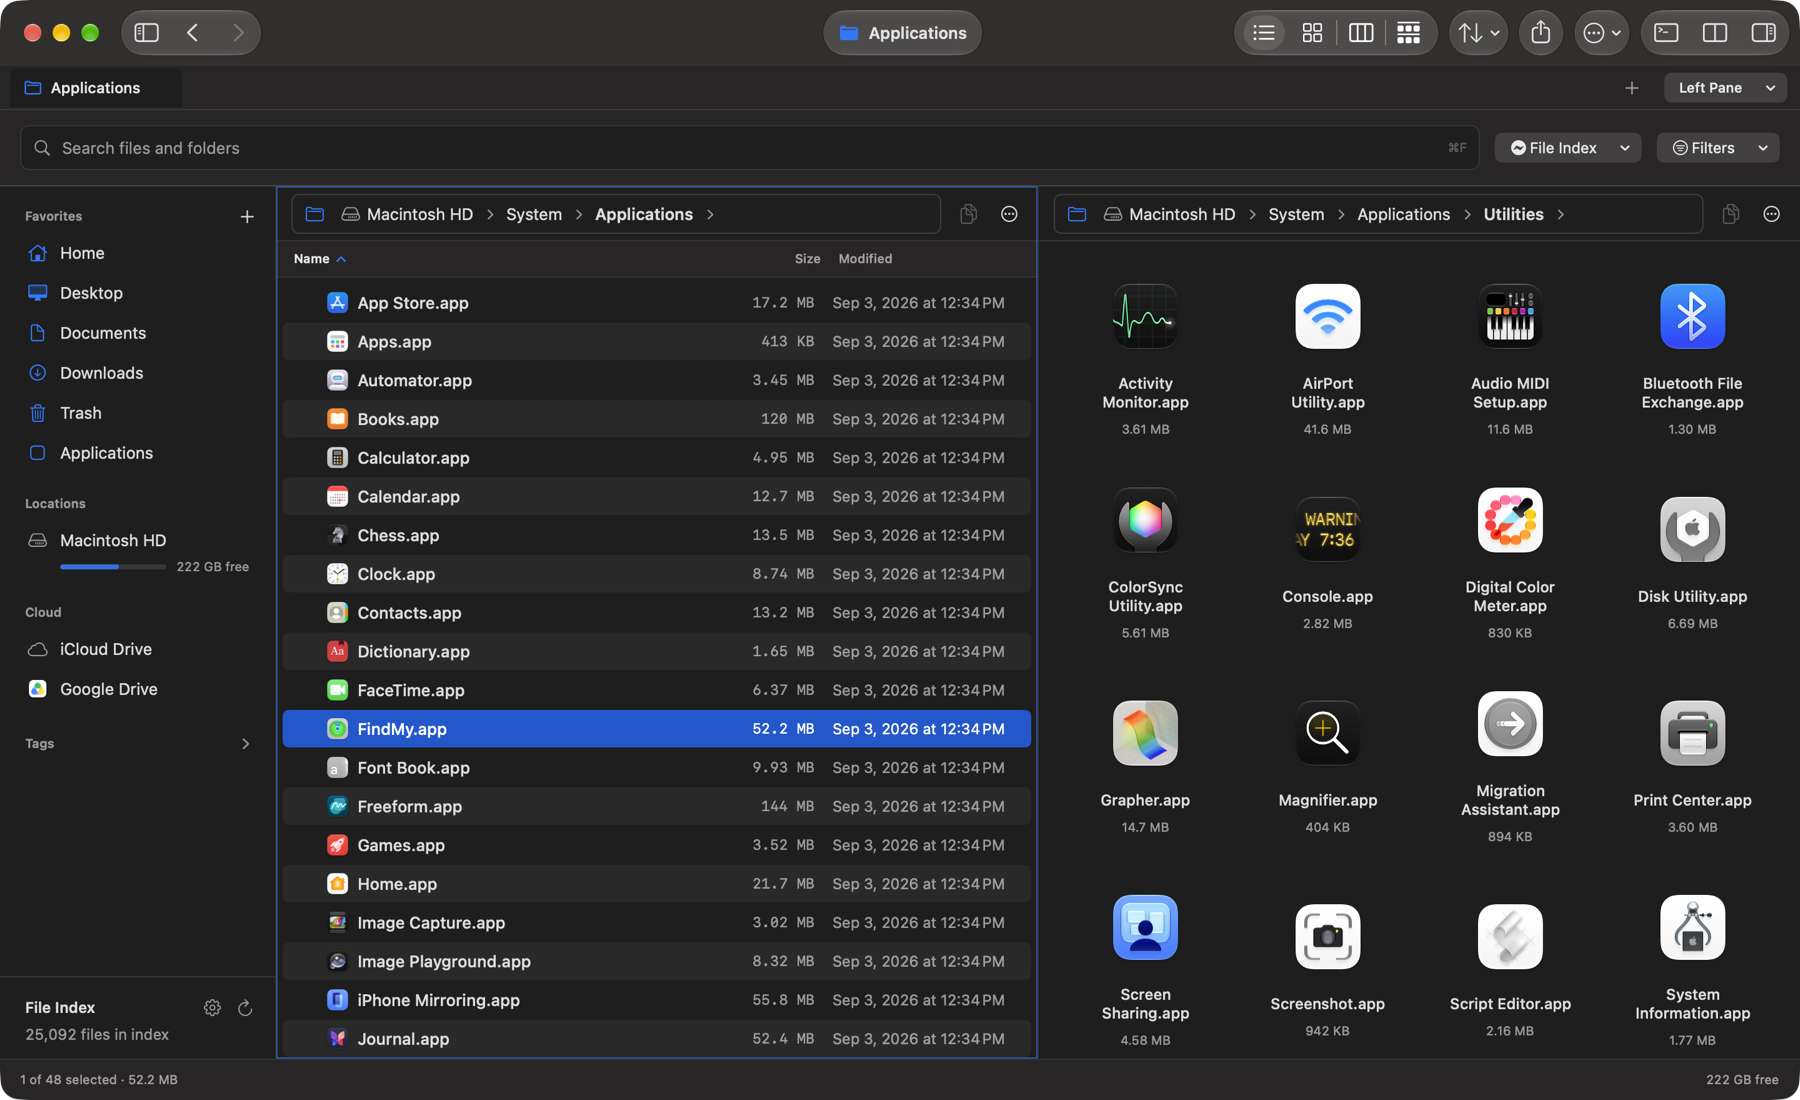
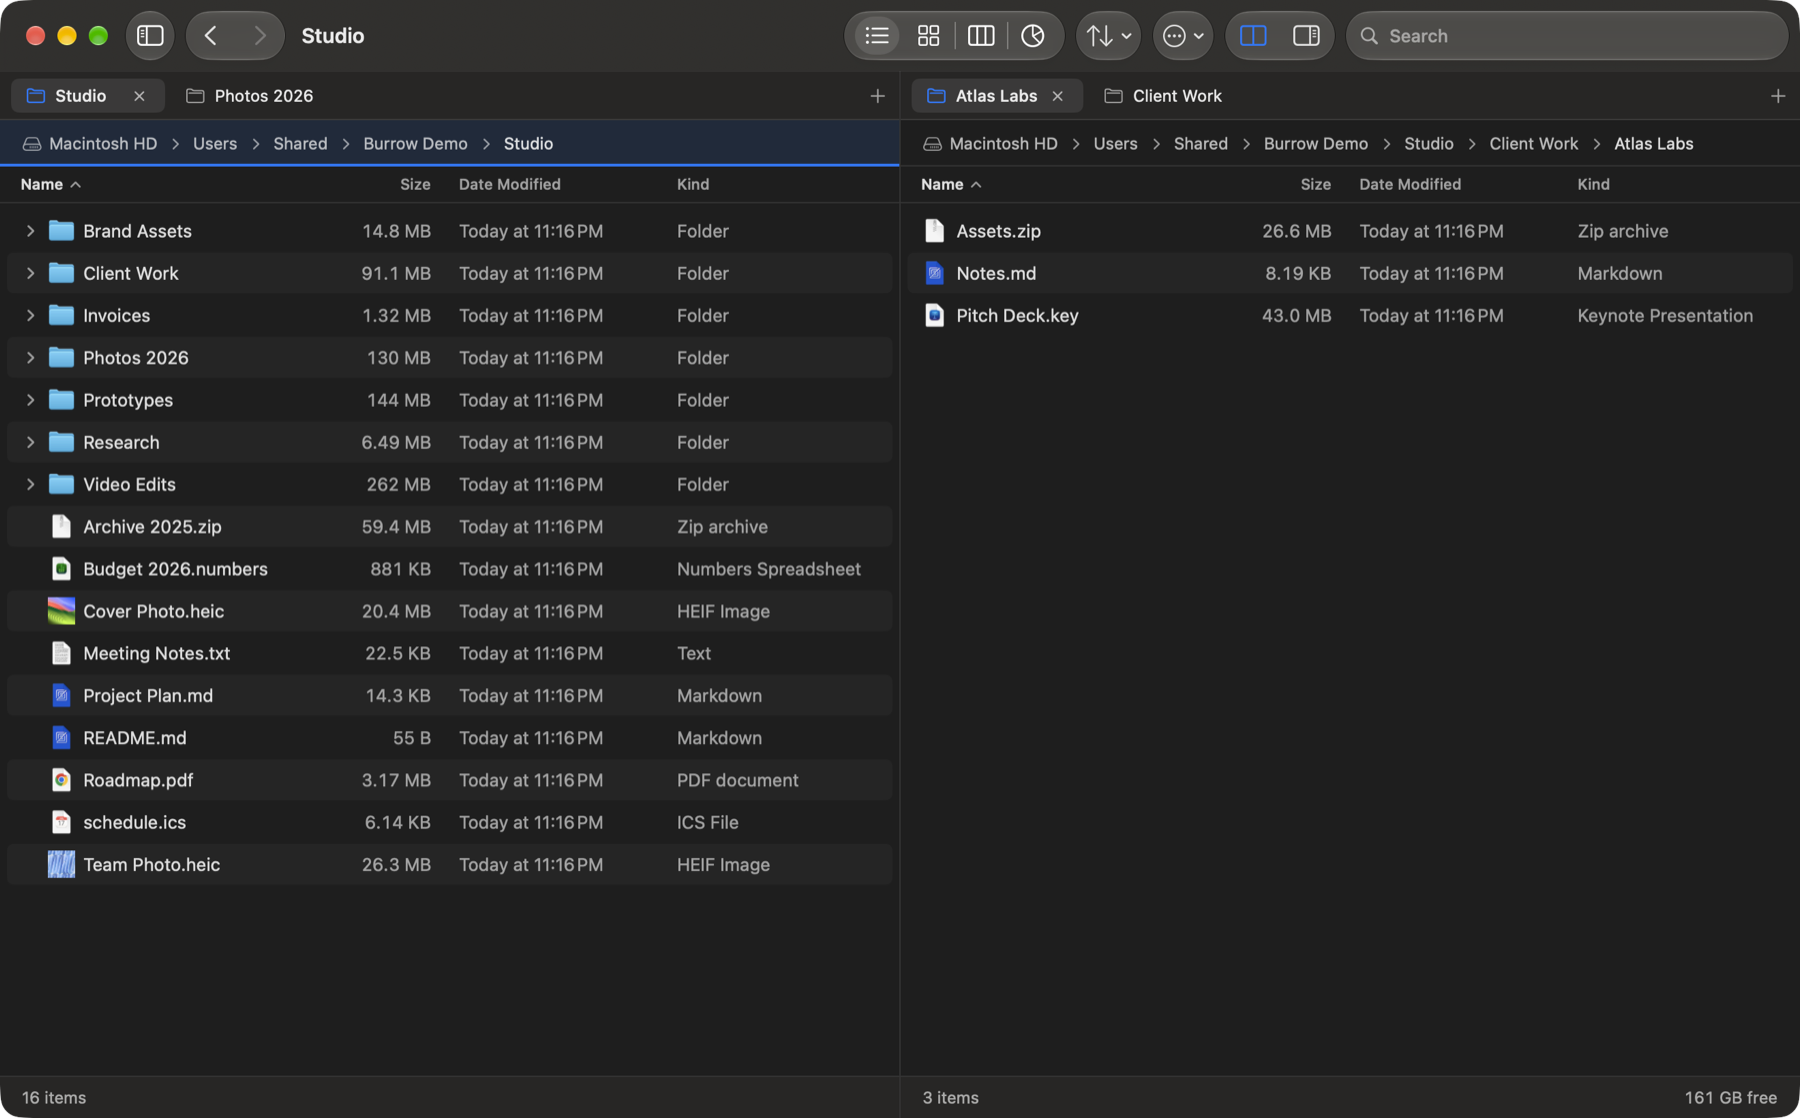
README screenshots of the 0.2.0 look

diff --git a/README.md b/README.md
@@ -33,7 +33,7 @@
 
 https://github.com/user-attachments/assets/154919ab-4196-4dbc-abe3-9a577abc60cc
 
-![Burrow with two panes: System Applications as a list and Utilities as icons, with Favorites, Locations and Cloud in the sidebar](docs/images/dual-pane.png)
+![Burrow in dual pane, each pane with its own tabs: a project folder on the left and one of its subfolders on the right](docs/images/dual-pane.png)
 
 ## Highlights
 
@@ -54,9 +54,9 @@ Burrow is a single native app with no third-party dependencies. It is built from
 
 ## Disk map
 
-![Disk map of /System/Library: size tree above a cushion-shaded treemap colored by file type](docs/images/disk-map.png)
+![Disk map of a project folder: total and file-type bar, a size tree with share bars, and a treemap with named folder groups colored by file type](docs/images/disk-map.png)
 
-Press **⌘4** and choose **Whole Disk**, or map any folder. Burrow works like WizTree, but on macOS:
+Press **⌘4** and choose **Scan Whole Disk**, or map any folder. Burrow works like WizTree, but on macOS:
 
 - **Fast whole-disk scans.** Eight parallel `getattrlistbulk` workers. On the author's Mac a scan of about 3.9 million entries takes around 20 seconds.
 - **Every level at once.** The treemap shows the full depth, not just the top folders. Hover for details, click to reveal an item in the tree, double-click to zoom in without rescanning.
